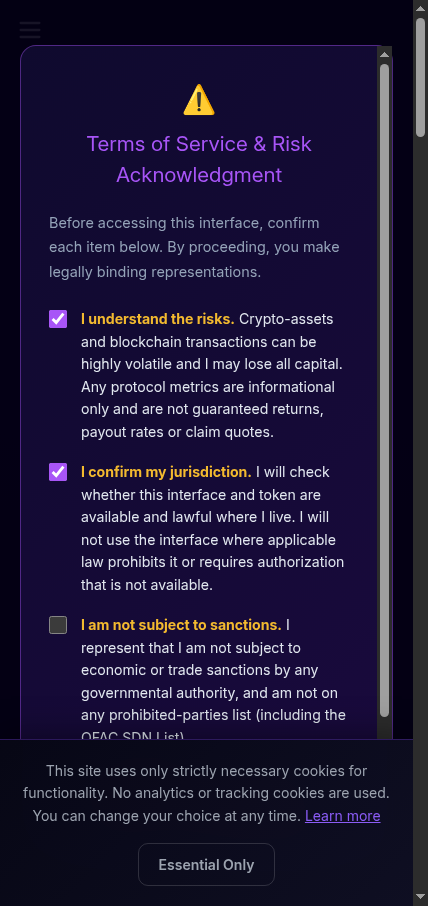
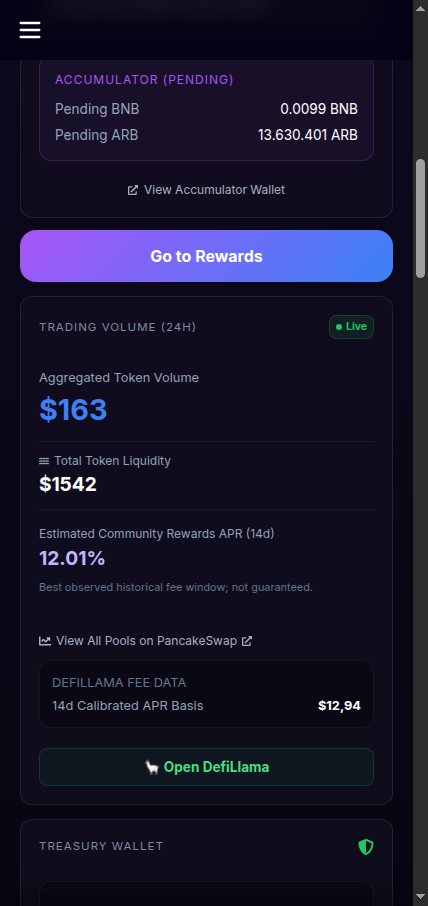
docs: show clean live DEX dashboard

diff --git a/README.md b/README.md
@@ -2,7 +2,7 @@
 ### Open-Source BSC DEX Aggregator, Cross-Chain Bridge & Real-Yield Terminal
 
 <p align="center">
-  <img src="./public/social-preview.png" alt="Arbitrage Inception - BNB Chain DEX Aggregator & Bridge" width="100%" />
+    <img src="./public/live-home.png" alt="Arbitrage Inception live DEX dashboard" width="100%" />
 </p>
 
 [![CI](https://github.com/arbincept/Arb-Inc-All-in-Dex/actions/workflows/ci.yml/badge.svg)](https://github.com/arbincept/Arb-Inc-All-in-Dex/actions)
@@ -31,7 +31,14 @@
 
 ## Demo & Concrete Example
 
-The image above is a project social preview, not a screenshot of the live application. Open the [live swap interface](https://arbitrage-inc.exchange/swap-all) to inspect the real BNB Chain swap UI and quote flow before signing anything in a wallet.
+The image above is a clean capture of the live application home dashboard. Use the dedicated routes below to inspect each primary product surface:
+
+- [Swap aggregator](https://arbitrage-inc.exchange/swap-all)
+- [Cross-chain bridge](https://arbitrage-inc.exchange/bridge)
+- [Limit orders](https://arbitrage-inc.exchange/limit-orders)
+- [Earn gateway](https://arbitrage-inc.exchange/vaults)
+
+The [`social-preview.png`](./public/social-preview.png) asset remains available for link previews and social sharing; it is not presented as a screenshot of the application.
 
 Example workflow:
 
